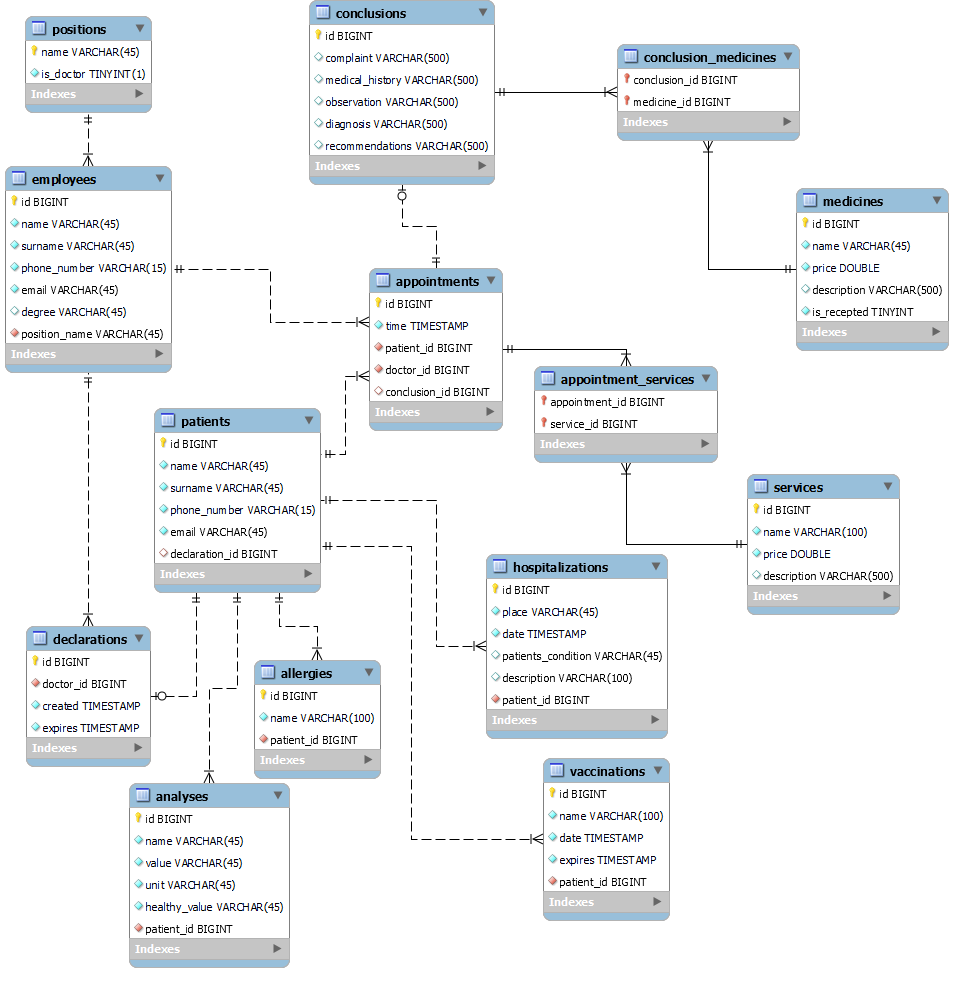
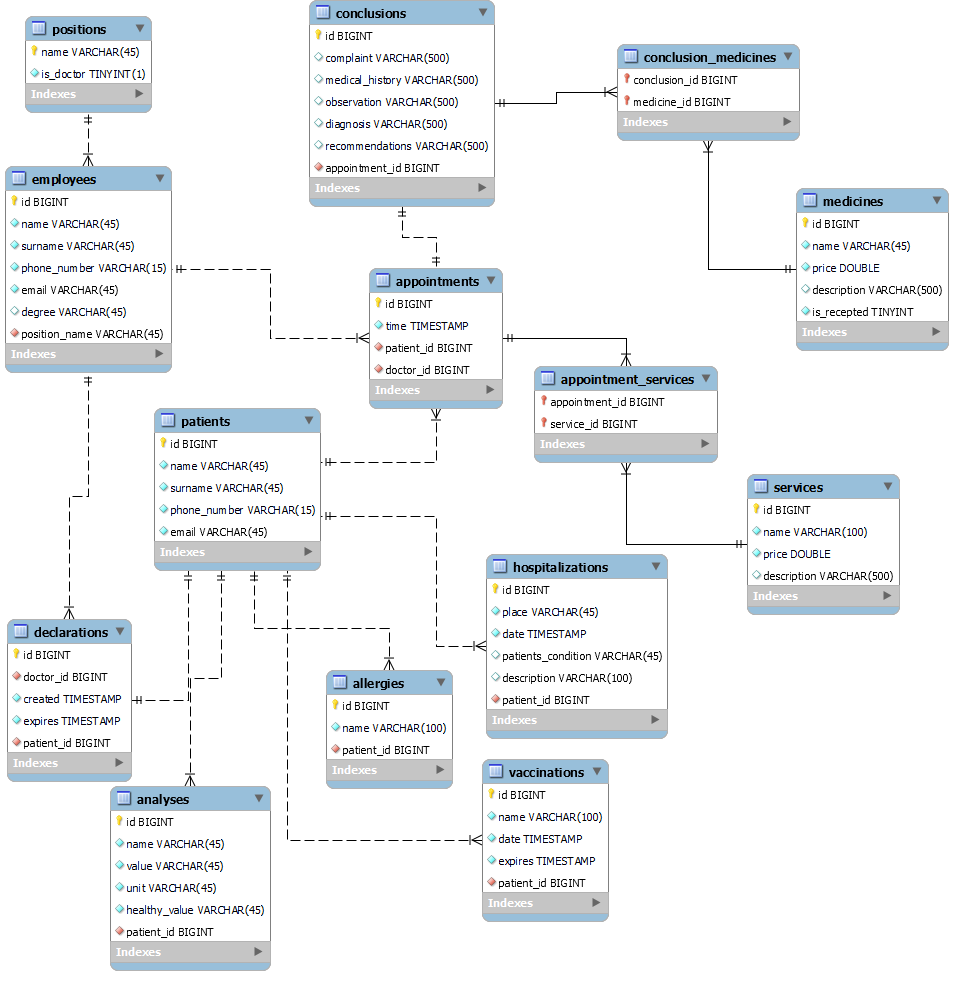
Db update (#7)
* remove todo

* db update

* repo changes

diff --git a/src/main/java/com/solvd/laba/hospital/dao/repository/info/impl/DeclarationRepositoryImpl.java b/src/main/java/com/solvd/laba/hospital/dao/repository/info/impl/DeclarationRepositoryImpl.java
@@ -11,10 +11,8 @@ import java.util.Optional;
 
 public class DeclarationRepositoryImpl implements DeclarationRepository {
     private static final Logger LOGGER = LogManager.getLogger(DeclarationRepositoryImpl.class);
-    private static final String CREATE = "INSERT INTO declarations(doctor_id, created, expires) VALUES (?, ?, ?);";
-    private static final String UPDATE_PATIENT = "UPDATE patients SET declaration_id = ? WHERE id = ?;";
-    private static final String FIND_DECLARATION_ID_BY_PATIENT_ID = "SELECT declaration_id FROM patients WHERE id = ?;";
-    private static final String FIND_DECLARATION_BY_ID = "SELECT * FROM declarations WHERE id = ?;";
+    private static final String CREATE = "INSERT INTO declarations(doctor_id, created, expires, patient_id) VALUES (?, ?, ?, ?);";
+    private static final String FIND_DECLARATION_BY_ID = "SELECT * FROM declarations WHERE patient_id = ? ;";
     private static final String UPDATE = "UPDATE declarations SET expires = ? WHERE id = ?;";
     private static final String DELETE = "DELETE FROM declarations WHERE id = ?;";
 
@@ -23,36 +21,21 @@ public class DeclarationRepositoryImpl implements DeclarationRepository {
     @Override
     public Declaration create(Declaration declaration, long patientId) {
         Connection connection = connectionPool.getConnection();
-        try (PreparedStatement create = connection.prepareStatement(CREATE, Statement.RETURN_GENERATED_KEYS);
-             PreparedStatement updatePatient = connection.prepareStatement(UPDATE_PATIENT)) {
-            connection.setAutoCommit(false);
+        try (PreparedStatement create = connection.prepareStatement(CREATE, Statement.RETURN_GENERATED_KEYS)) {
+
             create.setLong(1, declaration.getDoctor().getId());
             create.setDate(2, new Date(declaration.getCreated().getTime()));
             create.setDate(3, new Date(declaration.getExpires().getTime()));
+            create.setLong(4, patientId);
 
             create.executeUpdate();
             ResultSet rs = create.getGeneratedKeys();
             while (rs.next()) {
                 declaration.setId(rs.getLong(1));
             }
-//todo test
-            updatePatient.setLong(2, patientId);
-            updatePatient.setLong(1, declaration.getId());
-            updatePatient.executeUpdate();
-            connection.commit();
         } catch (SQLException e) {
-            try {
-                connection.rollback();
-            } catch (SQLException ex) {
-                LOGGER.error(e);
-            }
             LOGGER.error(e);
         } finally {
-            try {
-                connection.setAutoCommit(true);
-            } catch (SQLException e) {
-                LOGGER.error(e);
-            }
             connectionPool.releaseConnection(connection);
         }
         return declaration;
@@ -62,16 +45,8 @@ public class DeclarationRepositoryImpl implements DeclarationRepository {
     public Optional<Declaration> findByPatientId(long patientId) {
         Declaration declaration = null;
         Connection connection = connectionPool.getConnection();
-        try (PreparedStatement findId = connection.prepareStatement(FIND_DECLARATION_ID_BY_PATIENT_ID);
-             PreparedStatement findEntity = connection.prepareStatement(FIND_DECLARATION_BY_ID)) {
-            findId.setLong(1, patientId);
-
-            ResultSet findIdResultSet = findId.executeQuery();
-            long id = 0;
-            while (findIdResultSet.next()) {
-                id = findIdResultSet.getLong("declaration_id");
-            }
-            findEntity.setLong(1, id);
+        try (PreparedStatement findEntity = connection.prepareStatement(FIND_DECLARATION_BY_ID)) {
+            findEntity.setLong(1, patientId);
 
             ResultSet findEntityResultSet = findEntity.executeQuery();
             while (findEntityResultSet.next()) {

diff --git a/src/main/java/com/solvd/laba/hospital/dao/repository/appointment/impl/ConclusionRepositoryImpl.java b/src/main/java/com/solvd/laba/hospital/dao/repository/appointment/impl/ConclusionRepositoryImpl.java
@@ -11,9 +11,8 @@ import java.sql.*;
 
 public class ConclusionRepositoryImpl implements ConclusionRepository {
     private static final Logger LOGGER = LogManager.getLogger(ConclusionRepositoryImpl.class);
-    private static final String CREATE = "INSERT INTO conclusions(complaint, medical_history, observation, diagnosis, recommendations) VALUES (?, ?, ?, ?, ?);";
+    private static final String CREATE = "INSERT INTO conclusions(complaint, medical_history, observation, diagnosis, recommendations, appointment_id) VALUES (?, ?, ?, ?, ?, ?);";
     private static final String SAVE_MEDICINES = "INSERT INTO conclusion_medicines(conclusion_id, medicine_id) VALUES (?, ?);";
-    private static final String UPDATE_APPOINTMENT = "UPDATE appointments SET conclusion_id = ? WHERE id = ?;";
 
     private final ConnectionPool connectionPool = ConnectionPool.getInstance();
 
@@ -21,14 +20,14 @@ public class ConclusionRepositoryImpl implements ConclusionRepository {
     public Conclusion create(Conclusion conclusion, long appointmentId) {
         Connection connection = connectionPool.getConnection();
         try (PreparedStatement createConclusion = connection.prepareStatement(CREATE, Statement.RETURN_GENERATED_KEYS);
-             PreparedStatement saveMedicines = connection.prepareStatement(SAVE_MEDICINES);
-             PreparedStatement updateAppointment = connection.prepareStatement(UPDATE_APPOINTMENT)) {
+             PreparedStatement saveMedicines = connection.prepareStatement(SAVE_MEDICINES)) {
             connection.setAutoCommit(false);
             createConclusion.setString(1, conclusion.getComplaint());
             createConclusion.setString(2, conclusion.getMedicalHistory());
             createConclusion.setString(3, conclusion.getObservation());
             createConclusion.setString(4, conclusion.getDiagnosis());
             createConclusion.setString(5, conclusion.getRecommendation());
+            createConclusion.setLong(5, appointmentId);
 
             createConclusion.executeUpdate();
             ResultSet rs = createConclusion.getGeneratedKeys();
@@ -42,9 +41,6 @@ public class ConclusionRepositoryImpl implements ConclusionRepository {
                 saveMedicines.executeUpdate();
             }
 
-            updateAppointment.setLong(1, conclusion.getId());
-            updateAppointment.setLong(2, appointmentId);
-            updateAppointment.executeUpdate();
             connection.commit();
         } catch (SQLException e) {
             try {
